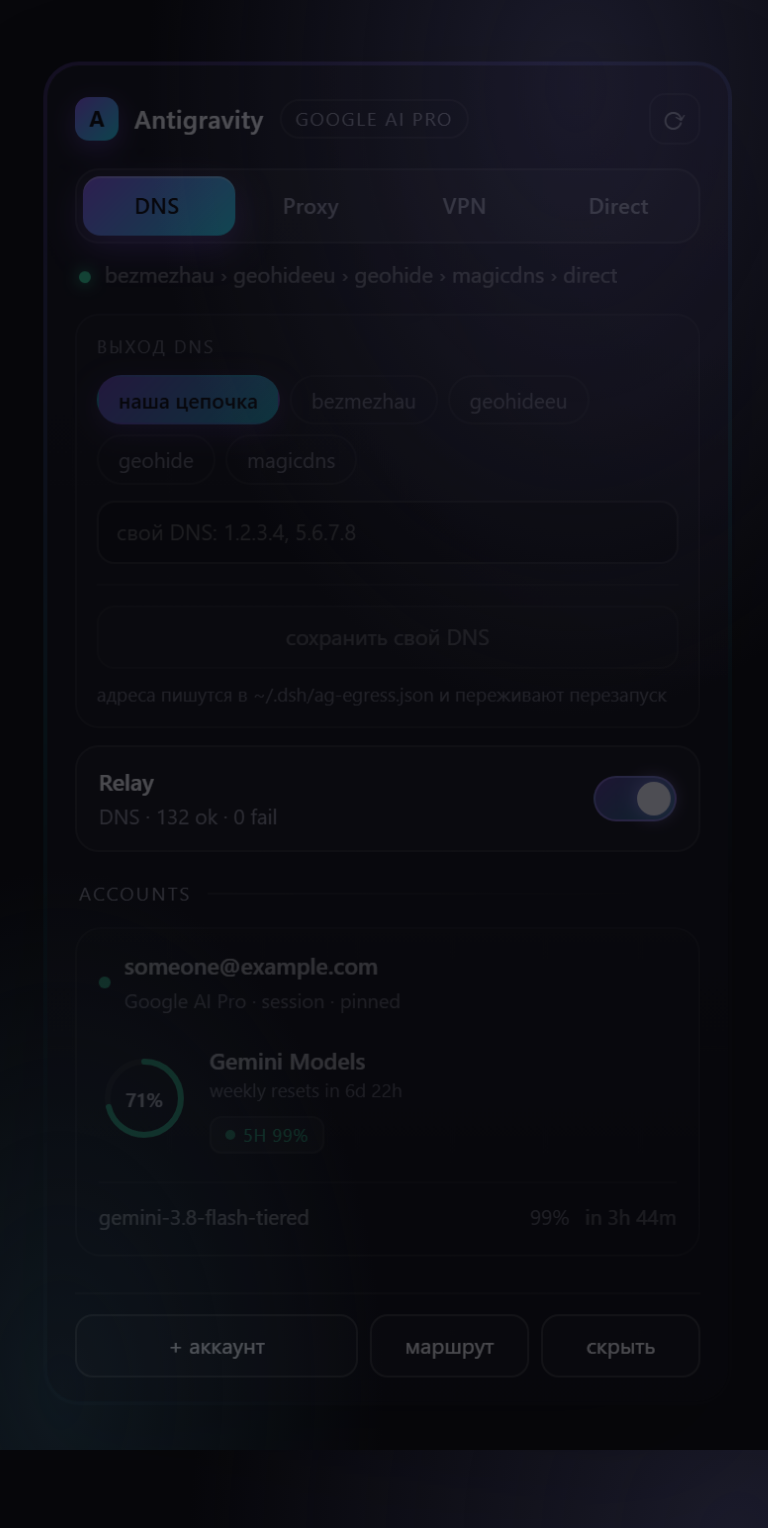
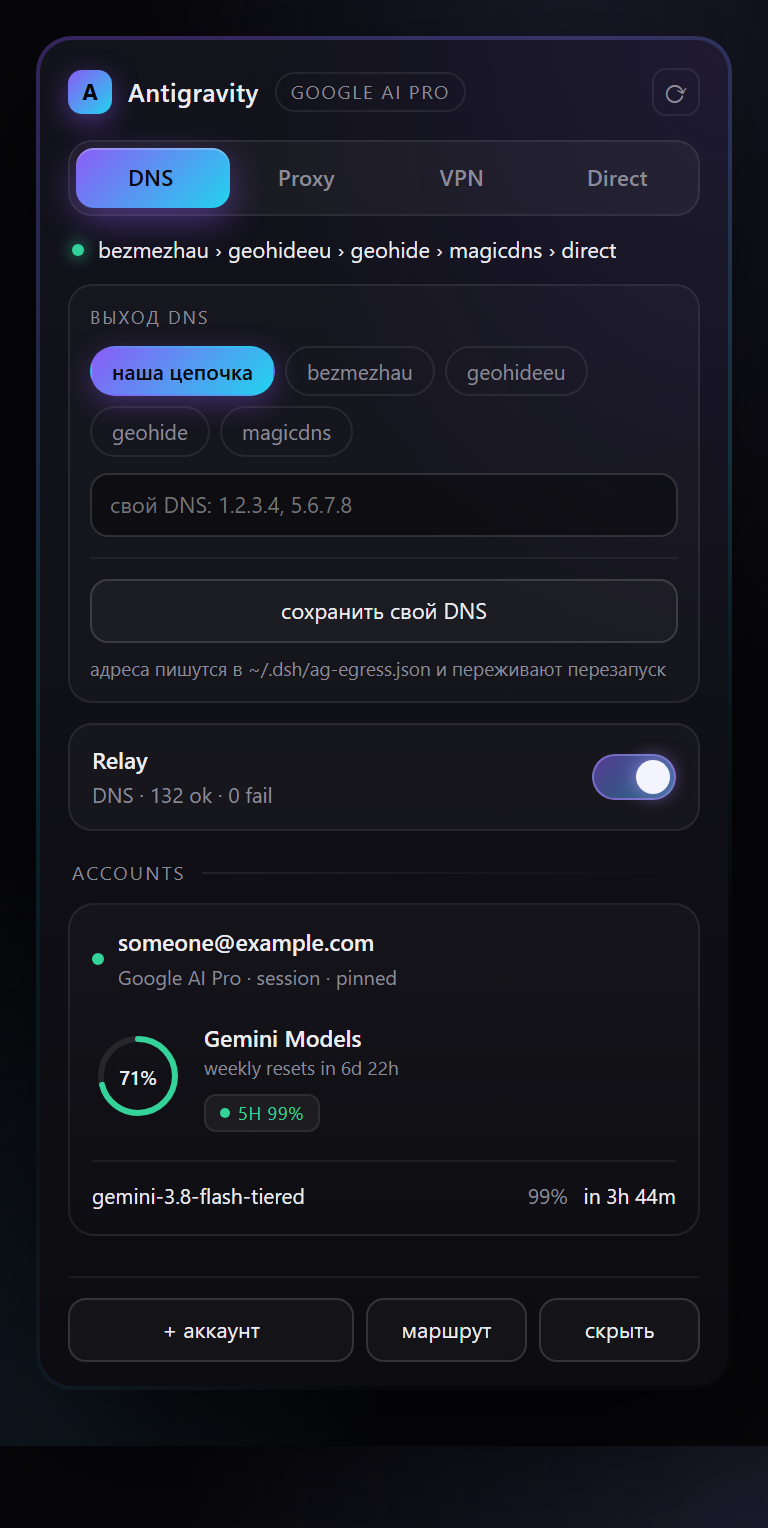
A refresh button that spins its glyph, and room for the relay link
The refresh button rotated itself, border and padding included, so it read as a wobbly square instead of a spinner. Only the inner SVG turns now, the button is 24px with a proper circular-arrow glyph, and it dims while a refresh is in flight.

The relay plugin's corner link (#dsh-relay-link, fixed right:16 bottom:16 with a huge z-index) sat directly on top of this overlay. The widget now publishes its own width as --agq-w and a single injected rule keeps that link to its left, at any size, without patching the other plugin.

diff --git a/plugins/quota-overlay/client.js b/plugins/quota-overlay/client.js
@@ -62,10 +62,16 @@ window.__ModuleLoader__.load({
 .agq .head h1{font-size:12.5px;font-weight:600;letter-spacing:.02em;margin:0}
 .agq .chip{font-size:9.5px;text-transform:uppercase;letter-spacing:.09em;color:var(--muted);
 	border:1px solid var(--line);border-radius:99px;padding:2px 7px}
-.agq .icon{margin-left:auto;width:26px;height:26px;border-radius:8px;display:grid;place-items:center;
+.agq .icon{margin-left:auto;width:24px;height:24px;border-radius:7px;display:grid;place-items:center;padding:0;
 	border:1px solid var(--line);color:var(--muted);transition:.15s}
 .agq .icon:hover{color:var(--text);border-color:var(--line-strong);background:rgba(255,255,255,.04)}
-.agq .icon.busy{animation:agq-spin 1s linear infinite;color:var(--b)}
+/* Only the glyph turns. Spinning the button itself rotated its border and padding too, which
+   reads as a wobbly square rather than a refresh. */
+.agq .icon svg{display:block;transition:transform .2s ease}
+.agq .icon.is-busy svg{animation:agq-spin .9s linear infinite}
+.agq .icon.is-busy{color:var(--b);border-color:rgba(124,156,255,.35)}
+.agq .icon[disabled]{opacity:.6;cursor:default}
+.agq .icon:active{transform:scale(.94)}
 @keyframes agq-spin{to{transform:rotate(360deg)}}
 .agq .seg{position:relative;display:grid;grid-template-columns:repeat(4,1fr);gap:3px;padding:3px;border-radius:12px;
 	background:rgba(255,255,255,.04);border:1px solid var(--line)}
@@ -917,9 +923,36 @@ window.__ModuleLoader__.load({
 				} catch {}
 			};
 
+			// The relay plugin puts its own link in the same corner (fixed, right:16, bottom:16,
+			// huge z-index) and it lands straight on top of this widget. Publishing our width
+			// lets the rule below keep that link to the left of us, at any size, without
+			// touching the other plugin.
+			const rootRef = React.useRef(null);
+			React.useEffect(() => {
+				const style = document.createElement("style");
+				style.id = "agq-relay-offset";
+				style.textContent =
+					"#dsh-relay-link{right:calc(16px + var(--agq-w, 132px) + 10px) !important}";
+				document.head.appendChild(style);
+				const node = rootRef.current;
+				const push = () => {
+					if (!node) return;
+					document.documentElement.style.setProperty("--agq-w", Math.round(node.offsetWidth) + "px");
+				};
+				push();
+				const observer = typeof ResizeObserver === "function" ? new ResizeObserver(push) : null;
+				if (observer && node) observer.observe(node);
+				window.addEventListener("resize", push);
+				return () => {
+					observer?.disconnect();
+					window.removeEventListener("resize", push);
+					style.remove();
+				};
+			}, []);
+
 			return h(
 				"div",
-				{ className: "agq", style: { position: "fixed", right: 14, bottom: 14, zIndex: 60, display: "flex", flexDirection: "column", alignItems: "flex-end" } },
+				{ ref: rootRef, className: "agq", style: { position: "fixed", right: 14, bottom: 14, zIndex: 60, display: "flex", flexDirection: "column", alignItems: "flex-end" } },
 				open
 					? h(
 							"div",
@@ -935,8 +968,32 @@ window.__ModuleLoader__.load({
 									primary && primary.tierName ? h("span", { className: "chip" }, primary.tierName) : null,
 									h(
 										"button",
-										{ className: "icon" + (loading ? " busy" : ""), onClick: () => load(true), disabled: loading, title: "refresh" },
-										"⟳"
+										{
+											className: "icon" + (loading ? " is-busy" : ""),
+											onClick: () => load(true),
+											disabled: loading,
+											title: "обновить",
+											"aria-label": "обновить"
+										},
+										h(
+											"svg",
+											{ viewBox: "0 0 16 16", width: 13, height: 13, "aria-hidden": "true" },
+											h("path", {
+												d: "M12.9 8a4.9 4.9 0 1 1-1.5-3.5",
+												fill: "none",
+												stroke: "currentColor",
+												"stroke-width": 1.5,
+												"stroke-linecap": "round"
+											}),
+											h("path", {
+												d: "M13.2 2.9v2.8H10.4",
+												fill: "none",
+												stroke: "currentColor",
+												"stroke-width": 1.5,
+												"stroke-linecap": "round",
+												"stroke-linejoin": "round"
+											})
+										)
 									)
 								),
 								h(
